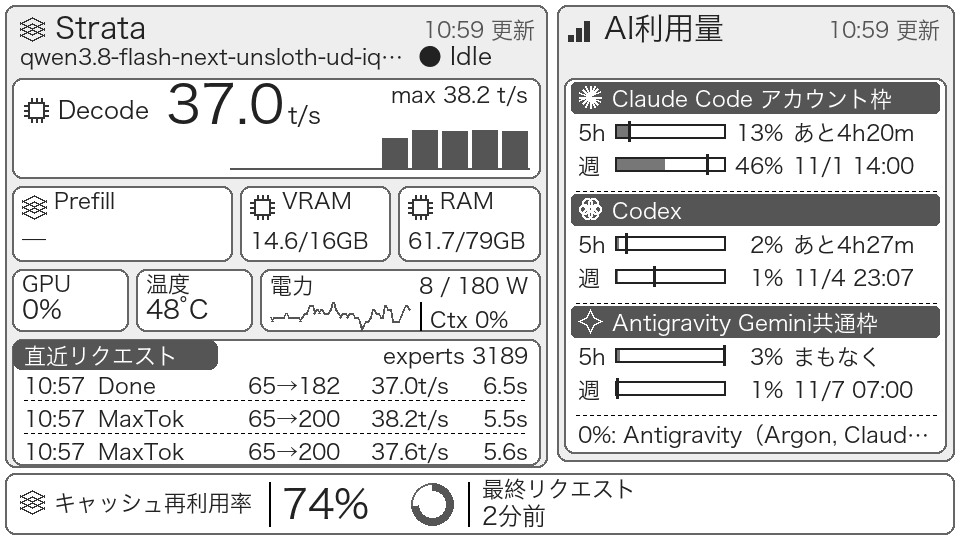
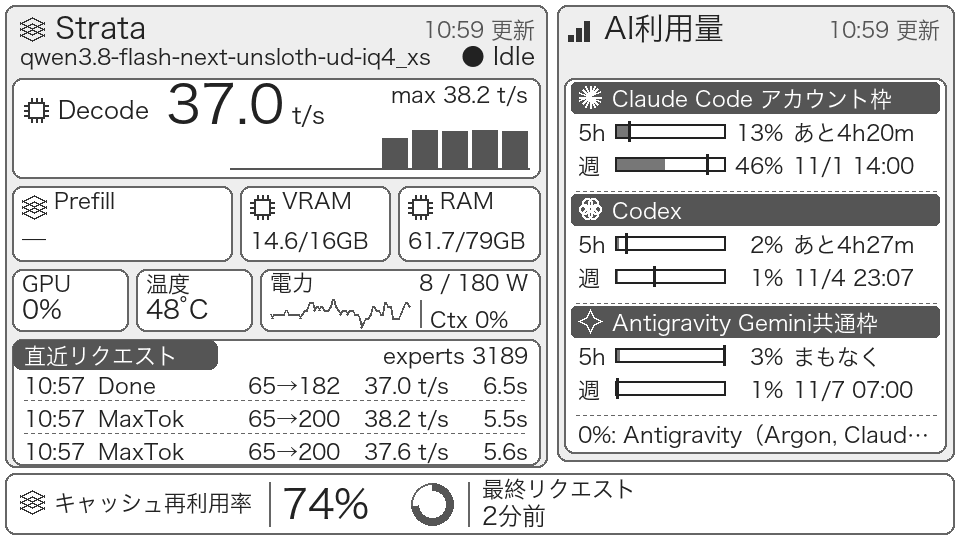
Fix dashboard overflow, warning contrast and layout regressions

diff --git a/paperhub/render.py b/paperhub/render.py
@@ -161,7 +161,6 @@ def provider_icon(c, provider_id, x, y):
         d.ellipse((x + 2, y + 2, x + 22, y + 22), outline=255, width=2)
 
 
-
 def metric(c, box, label, value, *, kind=None, size=24):
     panel(c, box, fill=255)
     x, y, right, bottom = box
@@ -169,6 +168,26 @@ def metric(c, box, label, value, *, kind=None, size=24):
         icon(c, kind, x + 10, y + 9)
     c.text(x + (42 if kind else 10), y + 23, label, bold=True, width=right - x - (52 if kind else 20))
     c.text(x + 10, bottom - 12, value, size=size, bold=True, width=right - x - 20)
+
+
+def memory_metric(c, box, label, value):
+    """Keep capacity and unit intact by moving GB into the heading if needed."""
+    compact = value.replace(" / ", "/").replace(" GB", "GB")
+    width = box[2] - box[0] - 20
+    if c.draw.textlength(compact, font=c.font(22, True)) <= width:
+        metric(c, box, label, compact, kind="chip", size=22)
+        return
+    capacity = compact.removesuffix("GB")
+    if c.draw.textlength(capacity, font=c.font(22, True)) <= width:
+        metric(c, box, label + " GB", capacity, size=22)
+        return
+    # Very large capacities use two rows at the same minimum font size.
+    panel(c, box)
+    x, y, right, bottom = box
+    c.text(x + 10, y + 20, label + " GB", bold=True)
+    used, total = capacity.split("/", 1)
+    c.text(x + 10, y + 44, used, bold=True)
+    c.text(x + 10, bottom - 6, "/" + total, bold=True)
 
 
 def metadata(c, view, source, right, y, width, failure_y=None):
@@ -184,8 +203,11 @@ def draw_strata(c, view):
     s = view["strata"]
     icon(c, "layers", 20, 17)
     c.text(55, 39, "Strata", size=30, bold=True)
+    state_width = 0
     if s:
-        c.text(418, 65, "● " + s["state"], size=24, width=117)
+        state = "● " + s["state"]
+        state_width = min(250, c.draw.textlength(state, font=c.font(24)))
+        c.right(535, 65, state, size=24, width=250)
     metadata(c, view, "strata", 535, 38, 330)
     if view["status"]["strata"]:
         c.text(24, 121, view["status"]["strata"], width=500)
@@ -194,13 +216,13 @@ def draw_strata(c, view):
         return
     model = s["model"]
     if s["state"].lower() not in ("idle", "—"):
-        model = s["phase"] + " " + s["live_tok_s"] + "t/s · " + model
-    c.text(20, 65, model, width=385)
+        model = s["phase"] + " " + s["live_tok_s"] + " t/s · " + model
+    c.text(20, 65, model, width=535 - state_width - 32)
     panel(c, (12, 78, 540, 178))
     icon(c, "chip", 24, 98)
     c.text(58, 119, "Decode", size=24, bold=True)
     end = c.text(166, 124, s["decode_tok_s"], size=54, bold=True, width=160)
-    c.text(end + 4, 124, "t/s", size=24, width=58)
+    c.text(end, 124, " t/s", size=24, width=58)
     samples = s["decode_history"]
     maximum = spark_summary(samples)
     maximum = "max " + maximum + (" t/s" if maximum not in ("idle", "—") else "")
@@ -215,15 +237,15 @@ def draw_strata(c, view):
             prefill += "（" + s["prefill_date"] + "）"
     metric(c, (12, 186, 232, 261), "Prefill", prefill, kind="layers",
            size=22 if s.get("prefill_cached") else 24)
-    metric(c, (240, 186, 390, 261), "VRAM", s["vram"].replace(" / ", "/").replace(" GB", "GB"), kind="chip", size=22)
-    metric(c, (398, 186, 540, 261), "RAM", s["ram"].replace(" / ", "/").replace(" GB", "GB"), kind="chip", size=22)
+    memory_metric(c, (240, 186, 390, 261), "VRAM", s["vram"])
+    memory_metric(c, (398, 186, 540, 261), "RAM", s["ram"])
     metric(c, (12, 269, 128, 331), "GPU", s["gpu_util"] + "%", size=26)
     metric(c, (136, 269, 252, 331), "温度", s["gpu_temp"] + "°C", size=26)
     panel(c, (260, 269, 540, 331))
-    c.text(270, 294, "電力", bold=True)
-    c.right(528, 294, s["power"], width=198)
-    c.spark(270, 300, [row.get("gpu_power") for row in view["history"]], width=140, height=32)
-    c.draw.line((420, 302, 420, 330), fill=0, width=2)
+    c.text(270, 291, "電力", bold=True)
+    c.right(528, 291, s["power"], width=198)
+    c.spark(270, 297, [row.get("gpu_power") for row in view["history"]], width=140, height=32)
+    c.draw.line((420, 300, 420, 327), fill=102, width=2)
     c.text(430, 328, "Ctx " + s["context"].split(" ", 1)[0], width=100)
 
     panel(c, (12, 339, 540, 465))
@@ -235,11 +257,11 @@ def draw_strata(c, view):
         c.text(24, y, request["time"][-5:], width=64)
         c.text(98, y, request["status"], width=88)
         c.right(340, y, request["tokens"].replace(" → ", "→"), width=144)
-        c.right(449, y, request["decode_tok_s"] + "t/s", width=99)
+        c.right(449, y, request["decode_tok_s"] + " t/s", width=99)
         c.right(528, y, request["duration_s"] + "s", width=69)
         if i < 2:
             for x in range(24, 528, 7):
-                c.draw.line((x, y + 6, x + 3, y + 6), fill=0, width=1)
+                c.draw.line((x, y + 6, x + 3, y + 6), fill=102, width=1)
 
 
 def draw_usage(c, view):
@@ -266,7 +288,7 @@ def draw_usage(c, view):
                 inverted = window["inverted"]
                 fg = 255 if inverted else 34
                 if inverted:
-                    c.draw.rectangle((570, y - 26, 940, y + 5), fill=85)
+                    c.draw.rectangle((570, y - 26, 940, y + 5), fill=51)
                 c.text(578, y, window["label"], fill=fg, width=34)
                 x, by, width = 615, y - 17, 110
                 c.draw.rectangle((x, by, x + width, by + 14), outline=fg, width=2)
@@ -281,7 +303,7 @@ def draw_usage(c, view):
                 c.text(793, y, window["reset"], fill=fg, width=145)
                 y += 33
             for x in range(576, 936, 7):
-                c.draw.line((x, y - 16, x + 3, y - 16), fill=0, width=1)
+                c.draw.line((x, y - 16, x + 3, y - 16), fill=102, width=1)
             y += 12
     text = zero_summary(u["zero_providers"], lambda value: c.draw.textlength(value, font=c.font(22)), width=354)
     if omitted:
@@ -295,7 +317,7 @@ def draw_footer(c, view):
     s = view["strata"]
     icon(c, "layers", 20, 490)
     c.text(54, 511, "キャッシュ再利用率", bold=True, width=215)
-    c.draw.line((269, 482, 269, 526), fill=0, width=2)
+    c.draw.line((269, 482, 269, 526), fill=102, width=2)
     value = s["cache_reuse"] if s else "—"
     c.text(282, 519, value, size=40, bold=True, width=120)
     ratio = number(s.get("cache_reuse_ratio")) if s else None
@@ -303,7 +325,7 @@ def draw_footer(c, view):
     c.draw.ellipse((411, 483, 453, 525), outline=102, width=2)
     if percent is not None:
         c.draw.arc((411, 483, 453, 525), start=-90, end=-90 + max(0, min(100, percent)) * 3.6, fill=85, width=8)
-    c.draw.line((468, 482, 468, 526), fill=0, width=2)
+    c.draw.line((468, 482, 468, 526), fill=102, width=2)
     c.text(482, 497, "最終リクエスト", width=210)
     c.text(482, 525, s["last_request"] if s else "—", size=24, width=210)
     telemetry = view["telemetry"]
@@ -313,7 +335,7 @@ def draw_footer(c, view):
     if number(telemetry.get("rssi")) is not None:
         parts.append(f"{telemetry['rssi']}dBm")
     if parts:
-        c.draw.line((700, 482, 700, 526), fill=0, width=2)
+        c.draw.line((700, 482, 700, 526), fill=102, width=2)
         c.text(714, 513, "  ".join(parts), width=230)
 
 

diff --git a/tests/test_render.py b/tests/test_render.py
@@ -25,6 +25,7 @@ def test_png_format_and_levels(settings, drawing_font, strata, usage):
     assert image.size == (960, 540)
     assert image.mode == "L"
     assert set(image.tobytes()) <= set(range(0, 256, 17))
+    assert 0 not in image.tobytes()
     assert image.getpixel((547, 300)) == 102
     assert image.getpixel((100, 473)) == 102
 
@@ -79,7 +80,8 @@ def test_spark_zero_line_and_usage_inversion(settings, drawing_font, strata, usa
     view = snapshot(settings, now=1793411985, strata=strata, usage=usage, history=rows)
     image = Image.open(io.BytesIO(render_png(view, settings)))
     # Claude is first; Codex follows in the second card section.
-    assert image.getpixel((938, 244)) == 85
+    assert image.getpixel((938, 210)) == 85  # Heading remains lighter.
+    assert image.getpixel((938, 244)) == 51
 
 
 def test_readable_rows_and_metric_baseline(settings, drawing_font, strata, usage, monkeypatch):
@@ -101,7 +103,7 @@ def test_readable_rows_and_metric_baseline(settings, drawing_font, strata, usage
         assert row[-1].endswith("s")
     assert all(b[1] - a[1] >= max(a[3], b[3]) * 1.3 for a, b in zip(recent, recent[1:]))
     decode = next(call for call in calls if call[2] == "37.0")
-    unit = next(call for call in calls if call[2] == "t/s")
+    unit = next(call for call in calls if call[2] == " t/s")
     assert unit[1] == decode[1]
     assert unit[0] > decode[0]
     assert any(text == "48°C" for _, _, text, _ in calls)
@@ -260,10 +262,12 @@ def test_failure_header_preserves_body_layout(settings, drawing_font, strata, us
     args = dict(now=1793411985, strata=strata, usage=usage,
                 successes={"strata": 1793411685, "xangi": 1793411685})
     render_png(snapshot(settings, **args), settings)
-    body = [call for call in calls if call[1] not in (38, 65)]
+    def is_metadata(call):
+        return str(call[2]).endswith("更新") or "取得失敗" in str(call[2])
+    body = [call for call in calls if not is_metadata(call)]
     calls.clear()
     render_png(snapshot(settings, **args, failures={"strata": 1793411985, "xangi": 1793411985}), settings)
-    assert [call for call in calls if call[1] not in (38, 65)] == body
+    assert [call for call in calls if not is_metadata(call)] == body
     failures = [call for call in calls if "取得失敗" in str(call[2])]
     assert len(failures) == 2
     assert [y for _, y, _, _ in failures] == [38, 65]
@@ -353,3 +357,47 @@ def test_provider_icons_plan_free_headings_and_top_update(settings, drawing_font
     assert updates == [(535, 38), (940, 38)]
     assert image.getpixel((800, 110)) == 85  # Same dark background as request heading.
     assert image.getpixel((635, 165)) == 119  # Gray usage fill, distinct from text.
+
+
+def test_generating_state_is_not_truncated(settings, drawing_font, strata, monkeypatch):
+    from PIL import ImageDraw
+    texts = []
+    original = ImageDraw.ImageDraw.text
+    def text(self, xy, value, **kwargs):
+        texts.append(str(value))
+        return original(self, xy, value, **kwargs)
+    monkeypatch.setattr(ImageDraw.ImageDraw, "text", text)
+    strata["live"]["state"] = "generating"
+    render_png(snapshot(settings, now=1793411985, strata=strata), settings)
+    assert "● Generating" in texts
+
+
+@pytest.mark.parametrize("used,total", [(100.2, 128), (900.2, 1024)])
+def test_large_memory_capacity_and_unit_remain_complete(settings, drawing_font, strata, monkeypatch, used, total):
+    from PIL import ImageDraw
+    texts = []
+    original = ImageDraw.ImageDraw.text
+    def text(self, xy, value, **kwargs):
+        texts.append((xy, str(value)))
+        return original(self, xy, value, **kwargs)
+    monkeypatch.setattr(ImageDraw.ImageDraw, "text", text)
+    for prefix in ("gpu_mem", "ram"):
+        strata["hardware"][prefix + "_used"] = used * 2**30
+        strata["hardware"][prefix + "_total"] = total * 2**30
+    render_png(snapshot(settings, now=1793411985, strata=strata), settings)
+    for label, left in (("VRAM", 240), ("RAM", 398)):
+        cells = [value for (x, y), value in texts if x == left + 10 and 186 < y < 261]
+        assert (f"{used}/{total}GB" in cells or
+                label + " GB" in cells and (f"{used}/{total}" in cells or
+                                           str(used) in cells and "/" + str(total) in cells))
+
+
+def test_power_chart_clears_card_border(settings, drawing_font, strata, monkeypatch):
+    charts = []
+    original = Canvas.spark
+    def spark(self, x, y, samples, width=140, height=32):
+        charts.append((y, height))
+        return original(self, x, y, samples, width=width, height=height)
+    monkeypatch.setattr(Canvas, "spark", spark)
+    render_png(snapshot(settings, now=1793411985, strata=strata), settings)
+    assert charts and all(y + height <= 329 for y, height in charts)

diff --git a/CHANGELOG.md b/CHANGELOG.md
@@ -2,10 +2,10 @@
 
 ## Unreleased
 
+- 動作中の状態・大容量メモリの表示幅、警告行の配色、電力グラフの余白、単位表記と失敗時レイアウトの検証を改善。
+
 - AI利用量のプラン表記を省略して幾何アイコンを追加。更新時刻を右上に揃え、背景・グラフ・枠線にグレーを導入。
-
 - ダッシュボードをカード形式に変更。Decode強調、利用量の点線区切り、再利用率リング、固定列のリクエスト一覧を追加。
-
 - 公開用の仕様・設定・運用・ファームウェア文書を整理。
 - 履歴を含む公開前チェック、GitHub CI、Issue・PRテンプレートを追加。
 - 現行機能: Strata/xangi計算、PNG描画、FastAPI、独立ポーリング・リトライ、SQLite履歴、デプロイ、PaperDIY。
